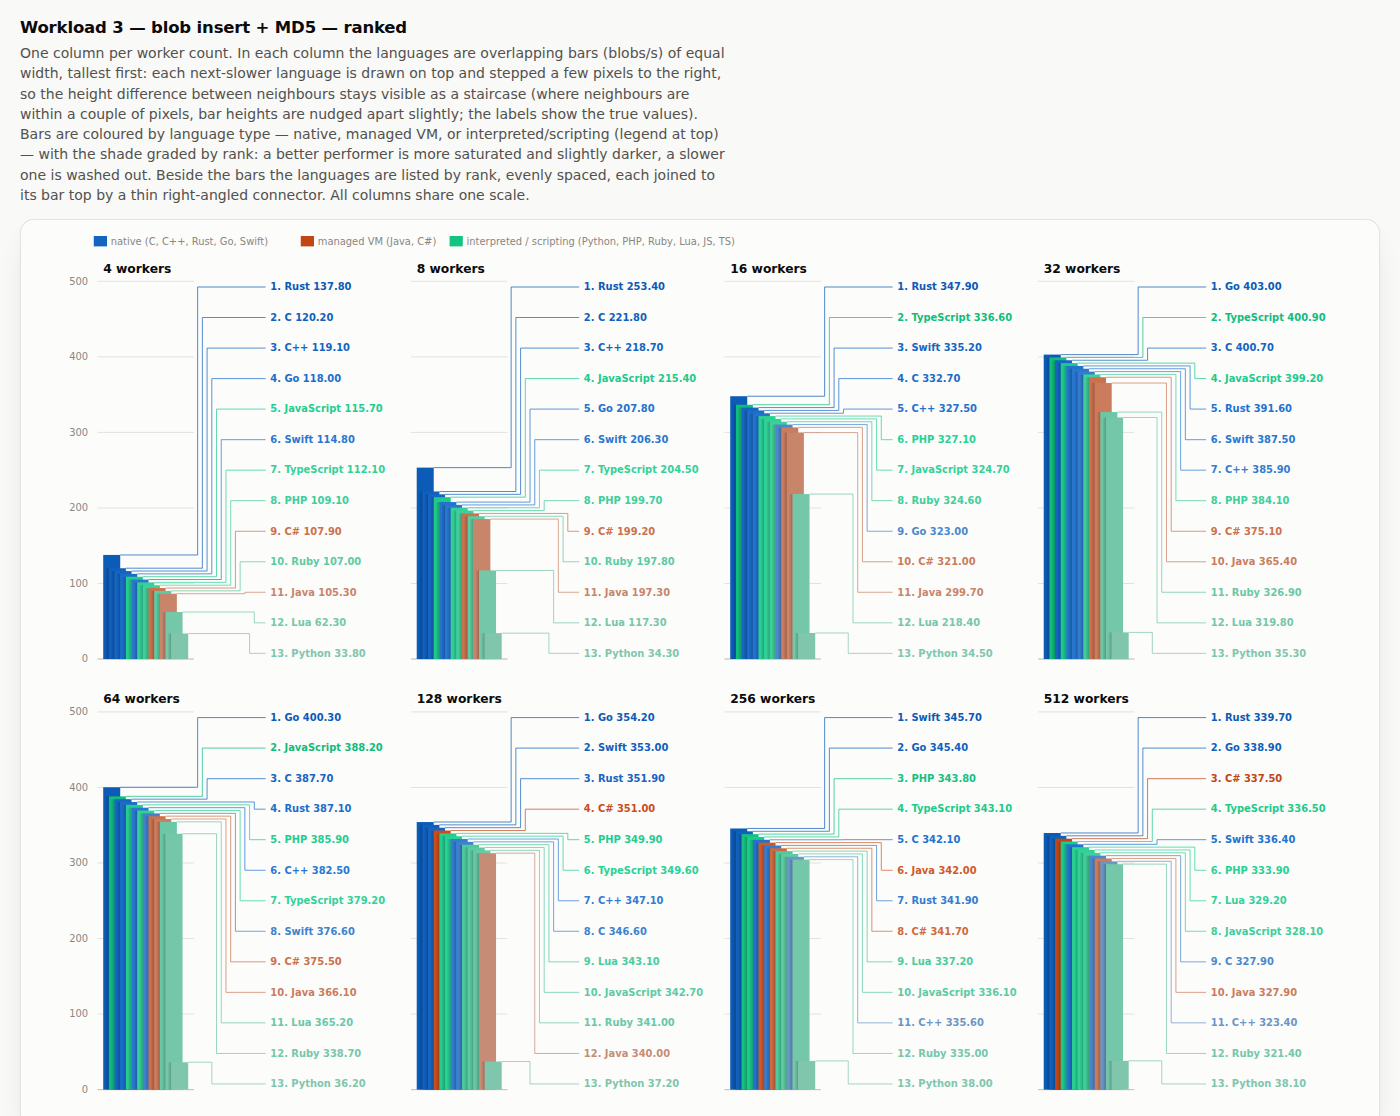
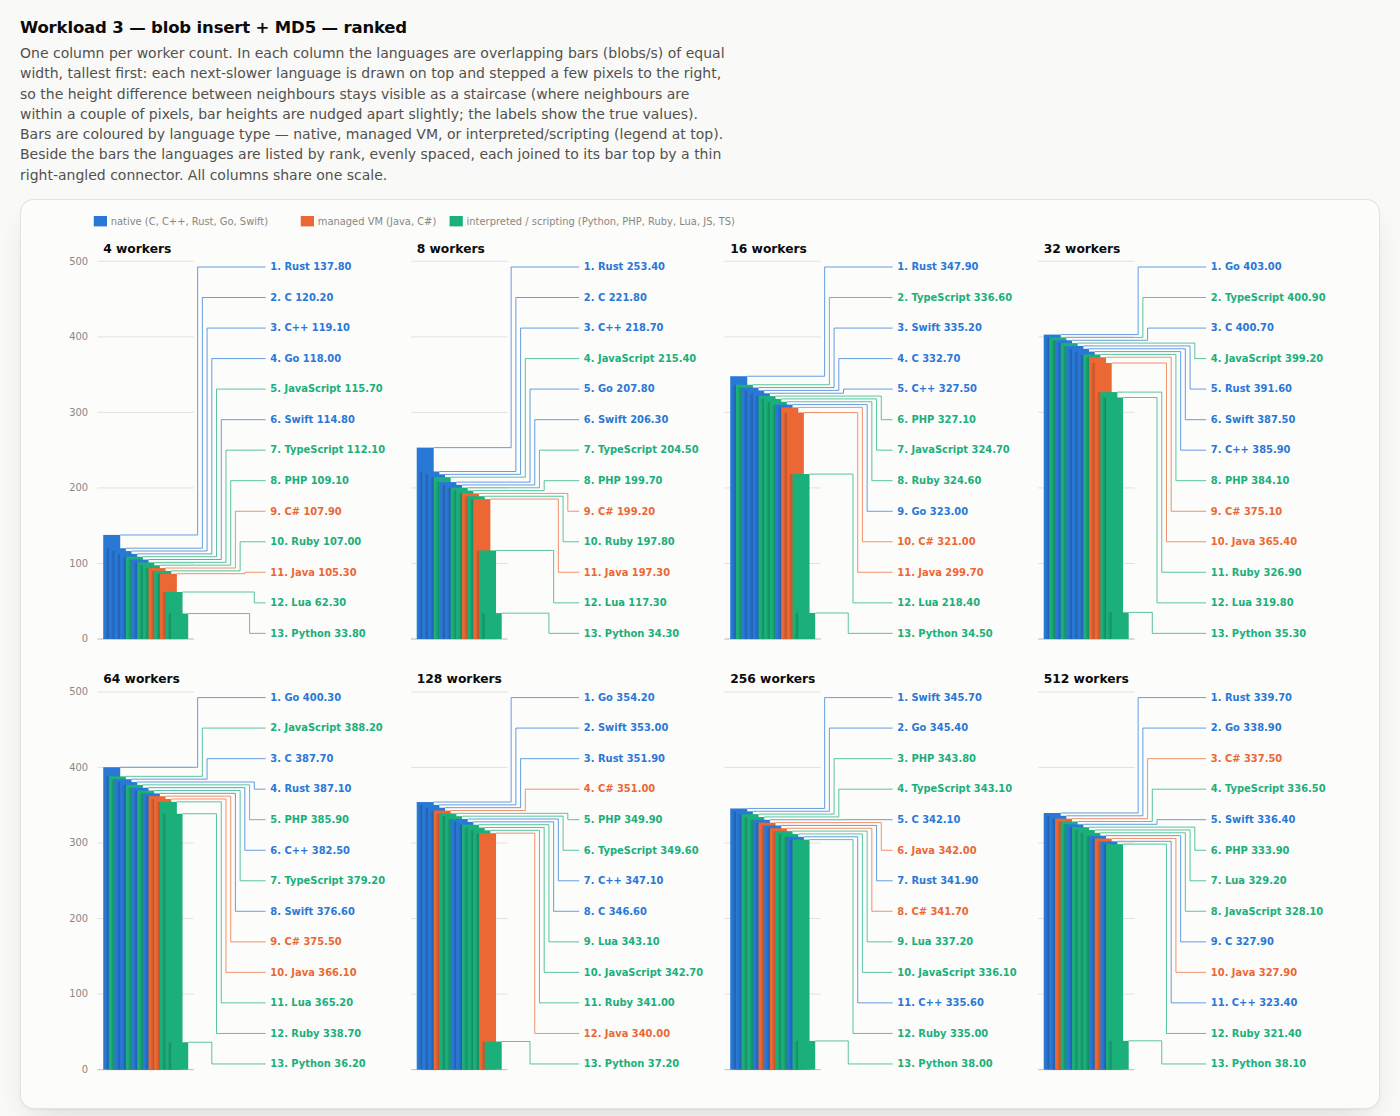
Revert "report: grade ranked-chart shades by rank within each type colour"
Undo 28032af: back to flat three-type colours (palette slots 1-3) on the
ranked charts, with no rank-based saturation/lightness grading.

diff --git a/report/ranked.html b/report/ranked.html
@@ -114,22 +114,22 @@
 
   <section id="sec-w1-rank">
     <h2>Workload 1 — integer insert — ranked</h2>
-    <p class="sub">One column per worker count. In each column the languages are overlapping bars (rows/s) of equal width, tallest first: each next-slower language is drawn on top and stepped a few pixels to the right, so the height difference between neighbours stays visible as a staircase (where neighbours are within a couple of pixels, bar heights are nudged apart slightly; the labels show the true values). Bars are coloured by language type &mdash; native, managed VM, or interpreted/scripting (legend at top) &mdash; with the shade graded by rank: a better performer is more saturated and slightly darker, a slower one is washed out. Beside the bars the languages are listed by rank, evenly spaced, each joined to its bar top by a thin right-angled connector. All columns share one scale.</p>
+    <p class="sub">One column per worker count. In each column the languages are overlapping bars (rows/s) of equal width, tallest first: each next-slower language is drawn on top and stepped a few pixels to the right, so the height difference between neighbours stays visible as a staircase (where neighbours are within a couple of pixels, bar heights are nudged apart slightly; the labels show the true values). Bars are coloured by language type &mdash; native, managed VM, or interpreted/scripting (legend at top). Beside the bars the languages are listed by rank, evenly spaced, each joined to its bar top by a thin right-angled connector. All columns share one scale.</p>
     <div class="bigchart" id="chart-w1-rank"></div>
   </section>
   <section id="sec-w2-rank">
     <h2>Workload 2 — integer fetch + sum — ranked</h2>
-    <p class="sub">One column per worker count. In each column the languages are overlapping bars (rows/s) of equal width, tallest first: each next-slower language is drawn on top and stepped a few pixels to the right, so the height difference between neighbours stays visible as a staircase (where neighbours are within a couple of pixels, bar heights are nudged apart slightly; the labels show the true values). Bars are coloured by language type &mdash; native, managed VM, or interpreted/scripting (legend at top) &mdash; with the shade graded by rank: a better performer is more saturated and slightly darker, a slower one is washed out. Beside the bars the languages are listed by rank, evenly spaced, each joined to its bar top by a thin right-angled connector. All columns share one scale.</p>
+    <p class="sub">One column per worker count. In each column the languages are overlapping bars (rows/s) of equal width, tallest first: each next-slower language is drawn on top and stepped a few pixels to the right, so the height difference between neighbours stays visible as a staircase (where neighbours are within a couple of pixels, bar heights are nudged apart slightly; the labels show the true values). Bars are coloured by language type &mdash; native, managed VM, or interpreted/scripting (legend at top). Beside the bars the languages are listed by rank, evenly spaced, each joined to its bar top by a thin right-angled connector. All columns share one scale.</p>
     <div class="bigchart" id="chart-w2-rank"></div>
   </section>
   <section id="sec-w3-rank">
     <h2>Workload 3 — blob insert + MD5 — ranked</h2>
-    <p class="sub">One column per worker count. In each column the languages are overlapping bars (blobs/s) of equal width, tallest first: each next-slower language is drawn on top and stepped a few pixels to the right, so the height difference between neighbours stays visible as a staircase (where neighbours are within a couple of pixels, bar heights are nudged apart slightly; the labels show the true values). Bars are coloured by language type &mdash; native, managed VM, or interpreted/scripting (legend at top) &mdash; with the shade graded by rank: a better performer is more saturated and slightly darker, a slower one is washed out. Beside the bars the languages are listed by rank, evenly spaced, each joined to its bar top by a thin right-angled connector. All columns share one scale.</p>
+    <p class="sub">One column per worker count. In each column the languages are overlapping bars (blobs/s) of equal width, tallest first: each next-slower language is drawn on top and stepped a few pixels to the right, so the height difference between neighbours stays visible as a staircase (where neighbours are within a couple of pixels, bar heights are nudged apart slightly; the labels show the true values). Bars are coloured by language type &mdash; native, managed VM, or interpreted/scripting (legend at top). Beside the bars the languages are listed by rank, evenly spaced, each joined to its bar top by a thin right-angled connector. All columns share one scale.</p>
     <div class="bigchart" id="chart-w3-rank"></div>
   </section>
   <section id="sec-w4-rank">
     <h2>Workload 4 — blob read + MD5 — ranked</h2>
-    <p class="sub">One column per worker count. In each column the languages are overlapping bars (blobs/s) of equal width, tallest first: each next-slower language is drawn on top and stepped a few pixels to the right, so the height difference between neighbours stays visible as a staircase (where neighbours are within a couple of pixels, bar heights are nudged apart slightly; the labels show the true values). Bars are coloured by language type &mdash; native, managed VM, or interpreted/scripting (legend at top) &mdash; with the shade graded by rank: a better performer is more saturated and slightly darker, a slower one is washed out. Beside the bars the languages are listed by rank, evenly spaced, each joined to its bar top by a thin right-angled connector. All columns share one scale.</p>
+    <p class="sub">One column per worker count. In each column the languages are overlapping bars (blobs/s) of equal width, tallest first: each next-slower language is drawn on top and stepped a few pixels to the right, so the height difference between neighbours stays visible as a staircase (where neighbours are within a couple of pixels, bar heights are nudged apart slightly; the labels show the true values). Bars are coloured by language type &mdash; native, managed VM, or interpreted/scripting (legend at top). Beside the bars the languages are listed by rank, evenly spaced, each joined to its bar top by a thin right-angled connector. All columns share one scale.</p>
     <div class="bigchart" id="chart-w4-rank"></div>
   </section>
   <footer>
@@ -441,17 +441,9 @@ const PAGE_BARS = false;
     const LTYPE = { c: "native", cpp: "native", rust: "native", go: "native", swift: "native",
                     java: "managed", csharp: "managed",
                     python: "interp", php: "interp", ruby: "interp", lua: "interp", javascript: "interp", typescript: "interp" };
-    // Type hues (matching palette slots 1-3). Within a column the shade is graded
-    // by rank: the best performer is more saturated and slightly darker, the
-    // slowest is washed out and lighter.
-    const THUE = { native: 212, managed: 17, interp: 158 };
-    const shade = (type, t) => {   // t = 0 (best) .. 1 (worst)
-      const s = 88 - 50 * t, l = 38 + 26 * t;
-      return `hsl(${THUE[type]}, ${s.toFixed(0)}%, ${l.toFixed(0)}%)`;
-    };
-    const TCOL = { native: shade("native", 0.15), managed: shade("managed", 0.15), interp: shade("interp", 0.15) };
+    const TCOL = { native: "var(--cat-1)", managed: "var(--cat-2)", interp: "var(--cat-3)" };
     const TNAME = { native: "native (C, C++, Rust, Go, Swift)", managed: "managed VM (Java, C#)", interp: "interpreted / scripting (Python, PHP, Ruby, Lua, JS, TS)" };
-    const typeCol = (it, t) => shade(LTYPE[it.lang] || "interp", t);
+    const typeCol = it => TCOL[LTYPE[it.lang] || "interp"];
     // Legend along the top.
     { let lx = ML; for (const k of ["native", "managed", "interp"]) {
         svg.appendChild(el("rect", { x: lx, y: 0, width: 14, height: 11, fill: TCOL[k] }));
@@ -476,7 +468,7 @@ const PAGE_BARS = false;
       svg.appendChild(el("line", { x1: bx0 - 6, x2: bx0 + GW + 6, y1: pb, y2: pb, stroke: "var(--baseline)", "stroke-width": 1 }));
       // Flat equal-width bars, tallest first; each shorter one drawn on top,
       // shifted OFF px right, so the height differences read as a staircase.
-      ranked.forEach((e, j) => { e.col = typeCol(e.it, n > 1 ? j / (n - 1) : 0); });
+      ranked.forEach(e => { e.col = typeCol(e.it); });
       // Visual nudge: neighbouring bars whose tops would be closer than MINGAP
       // px are pushed apart (shorter one down, cascading) so every step stays
       // visible; if the cascade would run past the baseline the whole stack is

diff --git a/report/annotated.html b/report/annotated.html
@@ -445,17 +445,9 @@ const PAGE_BARS = false;
     const LTYPE = { c: "native", cpp: "native", rust: "native", go: "native", swift: "native",
                     java: "managed", csharp: "managed",
                     python: "interp", php: "interp", ruby: "interp", lua: "interp", javascript: "interp", typescript: "interp" };
-    // Type hues (matching palette slots 1-3). Within a column the shade is graded
-    // by rank: the best performer is more saturated and slightly darker, the
-    // slowest is washed out and lighter.
-    const THUE = { native: 212, managed: 17, interp: 158 };
-    const shade = (type, t) => {   // t = 0 (best) .. 1 (worst)
-      const s = 88 - 50 * t, l = 38 + 26 * t;
-      return `hsl(${THUE[type]}, ${s.toFixed(0)}%, ${l.toFixed(0)}%)`;
-    };
-    const TCOL = { native: shade("native", 0.15), managed: shade("managed", 0.15), interp: shade("interp", 0.15) };
+    const TCOL = { native: "var(--cat-1)", managed: "var(--cat-2)", interp: "var(--cat-3)" };
     const TNAME = { native: "native (C, C++, Rust, Go, Swift)", managed: "managed VM (Java, C#)", interp: "interpreted / scripting (Python, PHP, Ruby, Lua, JS, TS)" };
-    const typeCol = (it, t) => shade(LTYPE[it.lang] || "interp", t);
+    const typeCol = it => TCOL[LTYPE[it.lang] || "interp"];
     // Legend along the top.
     { let lx = ML; for (const k of ["native", "managed", "interp"]) {
         svg.appendChild(el("rect", { x: lx, y: 0, width: 14, height: 11, fill: TCOL[k] }));
@@ -480,7 +472,7 @@ const PAGE_BARS = false;
       svg.appendChild(el("line", { x1: bx0 - 6, x2: bx0 + GW + 6, y1: pb, y2: pb, stroke: "var(--baseline)", "stroke-width": 1 }));
       // Flat equal-width bars, tallest first; each shorter one drawn on top,
       // shifted OFF px right, so the height differences read as a staircase.
-      ranked.forEach((e, j) => { e.col = typeCol(e.it, n > 1 ? j / (n - 1) : 0); });
+      ranked.forEach(e => { e.col = typeCol(e.it); });
       // Visual nudge: neighbouring bars whose tops would be closer than MINGAP
       // px are pushed apart (shorter one down, cascading) so every step stays
       // visible; if the cascade would run past the baseline the whole stack is

diff --git a/report/report.html b/report/report.html
@@ -525,17 +525,9 @@ const PAGE_BARS = false;
     const LTYPE = { c: "native", cpp: "native", rust: "native", go: "native", swift: "native",
                     java: "managed", csharp: "managed",
                     python: "interp", php: "interp", ruby: "interp", lua: "interp", javascript: "interp", typescript: "interp" };
-    // Type hues (matching palette slots 1-3). Within a column the shade is graded
-    // by rank: the best performer is more saturated and slightly darker, the
-    // slowest is washed out and lighter.
-    const THUE = { native: 212, managed: 17, interp: 158 };
-    const shade = (type, t) => {   // t = 0 (best) .. 1 (worst)
-      const s = 88 - 50 * t, l = 38 + 26 * t;
-      return `hsl(${THUE[type]}, ${s.toFixed(0)}%, ${l.toFixed(0)}%)`;
-    };
-    const TCOL = { native: shade("native", 0.15), managed: shade("managed", 0.15), interp: shade("interp", 0.15) };
+    const TCOL = { native: "var(--cat-1)", managed: "var(--cat-2)", interp: "var(--cat-3)" };
     const TNAME = { native: "native (C, C++, Rust, Go, Swift)", managed: "managed VM (Java, C#)", interp: "interpreted / scripting (Python, PHP, Ruby, Lua, JS, TS)" };
-    const typeCol = (it, t) => shade(LTYPE[it.lang] || "interp", t);
+    const typeCol = it => TCOL[LTYPE[it.lang] || "interp"];
     // Legend along the top.
     { let lx = ML; for (const k of ["native", "managed", "interp"]) {
         svg.appendChild(el("rect", { x: lx, y: 0, width: 14, height: 11, fill: TCOL[k] }));
@@ -560,7 +552,7 @@ const PAGE_BARS = false;
       svg.appendChild(el("line", { x1: bx0 - 6, x2: bx0 + GW + 6, y1: pb, y2: pb, stroke: "var(--baseline)", "stroke-width": 1 }));
       // Flat equal-width bars, tallest first; each shorter one drawn on top,
       // shifted OFF px right, so the height differences read as a staircase.
-      ranked.forEach((e, j) => { e.col = typeCol(e.it, n > 1 ? j / (n - 1) : 0); });
+      ranked.forEach(e => { e.col = typeCol(e.it); });
       // Visual nudge: neighbouring bars whose tops would be closer than MINGAP
       // px are pushed apart (shorter one down, cascading) so every step stays
       // visible; if the cascade would run past the baseline the whole stack is

diff --git a/report/bars.html b/report/bars.html
@@ -445,17 +445,9 @@ const PAGE_BARS = true;
     const LTYPE = { c: "native", cpp: "native", rust: "native", go: "native", swift: "native",
                     java: "managed", csharp: "managed",
                     python: "interp", php: "interp", ruby: "interp", lua: "interp", javascript: "interp", typescript: "interp" };
-    // Type hues (matching palette slots 1-3). Within a column the shade is graded
-    // by rank: the best performer is more saturated and slightly darker, the
-    // slowest is washed out and lighter.
-    const THUE = { native: 212, managed: 17, interp: 158 };
-    const shade = (type, t) => {   // t = 0 (best) .. 1 (worst)
-      const s = 88 - 50 * t, l = 38 + 26 * t;
-      return `hsl(${THUE[type]}, ${s.toFixed(0)}%, ${l.toFixed(0)}%)`;
-    };
-    const TCOL = { native: shade("native", 0.15), managed: shade("managed", 0.15), interp: shade("interp", 0.15) };
+    const TCOL = { native: "var(--cat-1)", managed: "var(--cat-2)", interp: "var(--cat-3)" };
     const TNAME = { native: "native (C, C++, Rust, Go, Swift)", managed: "managed VM (Java, C#)", interp: "interpreted / scripting (Python, PHP, Ruby, Lua, JS, TS)" };
-    const typeCol = (it, t) => shade(LTYPE[it.lang] || "interp", t);
+    const typeCol = it => TCOL[LTYPE[it.lang] || "interp"];
     // Legend along the top.
     { let lx = ML; for (const k of ["native", "managed", "interp"]) {
         svg.appendChild(el("rect", { x: lx, y: 0, width: 14, height: 11, fill: TCOL[k] }));
@@ -480,7 +472,7 @@ const PAGE_BARS = true;
       svg.appendChild(el("line", { x1: bx0 - 6, x2: bx0 + GW + 6, y1: pb, y2: pb, stroke: "var(--baseline)", "stroke-width": 1 }));
       // Flat equal-width bars, tallest first; each shorter one drawn on top,
       // shifted OFF px right, so the height differences read as a staircase.
-      ranked.forEach((e, j) => { e.col = typeCol(e.it, n > 1 ? j / (n - 1) : 0); });
+      ranked.forEach(e => { e.col = typeCol(e.it); });
       // Visual nudge: neighbouring bars whose tops would be closer than MINGAP
       // px are pushed apart (shorter one down, cascading) so every step stays
       // visible; if the cascade would run past the baseline the whole stack is

diff --git a/report/generate_html_report.py b/report/generate_html_report.py
@@ -328,7 +328,7 @@ def main():
         rank_sections += f"""
   <section id="sec-{sid}-rank">
     <h2>{m['title']} — ranked</h2>
-    <p class="sub">One column per worker count. In each column the languages are overlapping bars ({m['unit']}) of equal width, tallest first: each next-slower language is drawn on top and stepped a few pixels to the right, so the height difference between neighbours stays visible as a staircase (where neighbours are within a couple of pixels, bar heights are nudged apart slightly; the labels show the true values). Bars are coloured by language type &mdash; native, managed VM, or interpreted/scripting (legend at top) &mdash; with the shade graded by rank: a better performer is more saturated and slightly darker, a slower one is washed out. Beside the bars the languages are listed by rank, evenly spaced, each joined to its bar top by a thin right-angled connector. All columns share one scale.</p>
+    <p class="sub">One column per worker count. In each column the languages are overlapping bars ({m['unit']}) of equal width, tallest first: each next-slower language is drawn on top and stepped a few pixels to the right, so the height difference between neighbours stays visible as a staircase (where neighbours are within a couple of pixels, bar heights are nudged apart slightly; the labels show the true values). Bars are coloured by language type &mdash; native, managed VM, or interpreted/scripting (legend at top). Beside the bars the languages are listed by rank, evenly spaced, each joined to its bar top by a thin right-angled connector. All columns share one scale.</p>
     <div class="bigchart" id="chart-{sid}-rank"></div>
   </section>"""
         png_ann.append(f"{sid}-ann")
@@ -894,17 +894,9 @@ const PAGE_BARS = __PAGE_BARS__;
     const LTYPE = { c: "native", cpp: "native", rust: "native", go: "native", swift: "native",
                     java: "managed", csharp: "managed",
                     python: "interp", php: "interp", ruby: "interp", lua: "interp", javascript: "interp", typescript: "interp" };
-    // Type hues (matching palette slots 1-3). Within a column the shade is graded
-    // by rank: the best performer is more saturated and slightly darker, the
-    // slowest is washed out and lighter.
-    const THUE = { native: 212, managed: 17, interp: 158 };
-    const shade = (type, t) => {   // t = 0 (best) .. 1 (worst)
-      const s = 88 - 50 * t, l = 38 + 26 * t;
-      return `hsl(${THUE[type]}, ${s.toFixed(0)}%, ${l.toFixed(0)}%)`;
-    };
-    const TCOL = { native: shade("native", 0.15), managed: shade("managed", 0.15), interp: shade("interp", 0.15) };
+    const TCOL = { native: "var(--cat-1)", managed: "var(--cat-2)", interp: "var(--cat-3)" };
     const TNAME = { native: "native (C, C++, Rust, Go, Swift)", managed: "managed VM (Java, C#)", interp: "interpreted / scripting (Python, PHP, Ruby, Lua, JS, TS)" };
-    const typeCol = (it, t) => shade(LTYPE[it.lang] || "interp", t);
+    const typeCol = it => TCOL[LTYPE[it.lang] || "interp"];
     // Legend along the top.
     { let lx = ML; for (const k of ["native", "managed", "interp"]) {
         svg.appendChild(el("rect", { x: lx, y: 0, width: 14, height: 11, fill: TCOL[k] }));
@@ -929,7 +921,7 @@ const PAGE_BARS = __PAGE_BARS__;
       svg.appendChild(el("line", { x1: bx0 - 6, x2: bx0 + GW + 6, y1: pb, y2: pb, stroke: "var(--baseline)", "stroke-width": 1 }));
       // Flat equal-width bars, tallest first; each shorter one drawn on top,
       // shifted OFF px right, so the height differences read as a staircase.
-      ranked.forEach((e, j) => { e.col = typeCol(e.it, n > 1 ? j / (n - 1) : 0); });
+      ranked.forEach(e => { e.col = typeCol(e.it); });
       // Visual nudge: neighbouring bars whose tops would be closer than MINGAP
       // px are pushed apart (shorter one down, cascading) so every step stays
       // visible; if the cascade would run past the baseline the whole stack is
